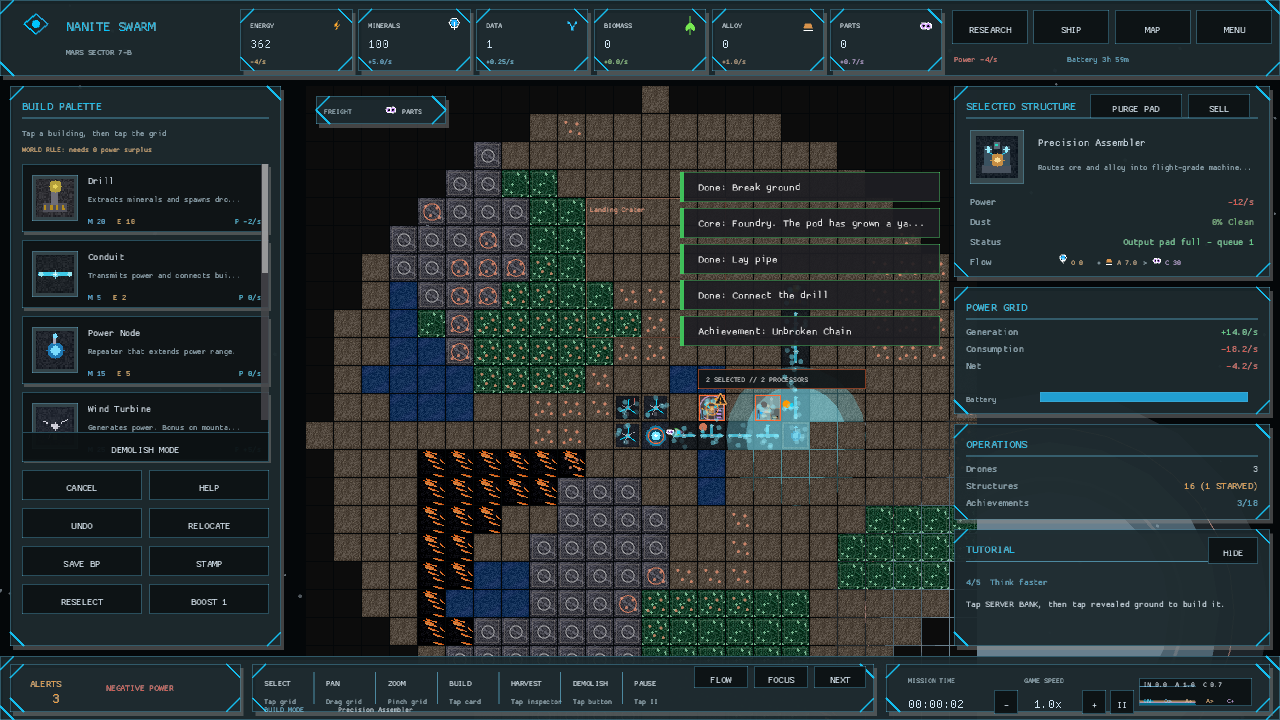
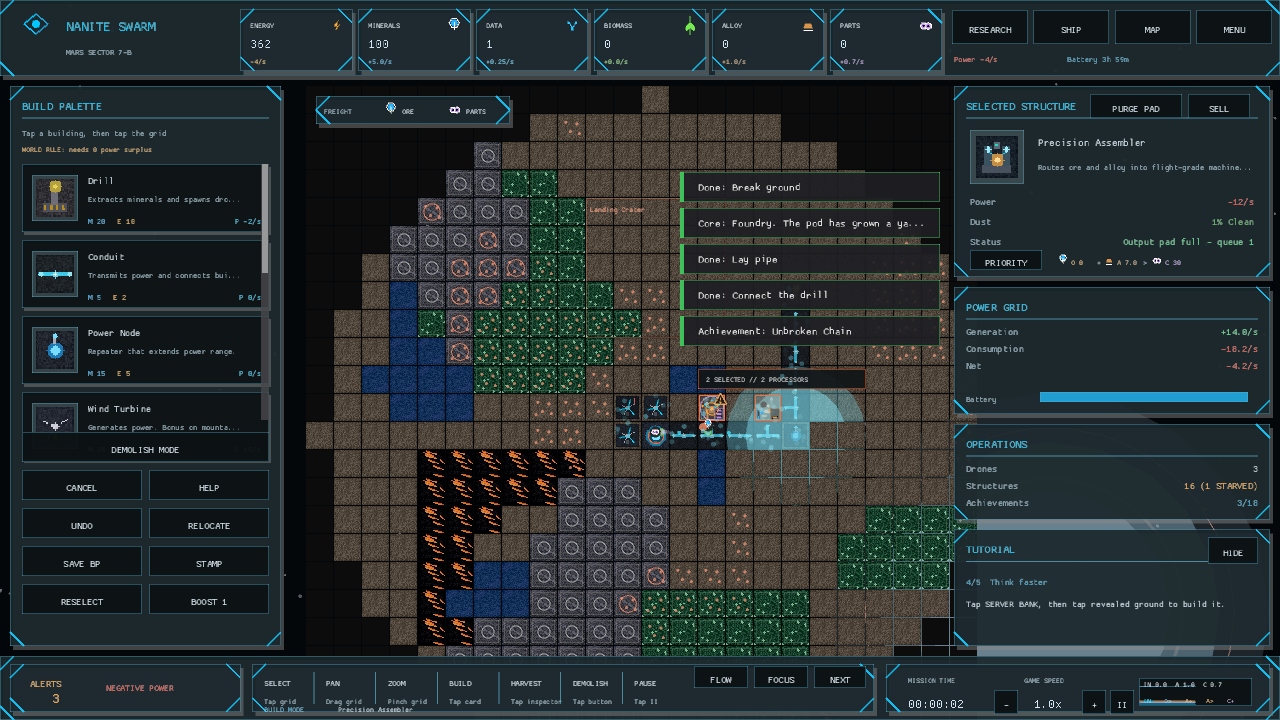
The hungriest line can call the freight swarm first (processor input priority)
Demand balancing alone could not express that one production chain mattered more than its peers. Add a persistent STANDARD/PRIORITY touch control to processor recipe rows and make priority the first tier in demand-aware cargo dispatch. Preserve the policy through saves, blueprints, relocation, and undo, with routing, action, and persistence coverage.

diff --git a/src/state/actions.rs b/src/state/actions.rs
@@ -160,6 +160,7 @@ impl PlanetState {
                     building_type,
                     pos,
                     removed.overclocked,
+                    removed.input_priority,
                 ));
             return true;
         }
@@ -254,6 +255,7 @@ impl PlanetState {
                         offset: (pos.x - anchor.x, pos.y - anchor.y),
                         building_type: building.building_type,
                         overclocked: building.overclocked,
+                        input_priority: building.input_priority,
                     })
             })
             .collect();
@@ -388,6 +390,15 @@ impl PlanetState {
                         building.overclocked = building.supports_overclock();
                     }
                 }
+                if entry.input_priority {
+                    if let Some(building) = self
+                        .grid
+                        .get_mut(pos)
+                        .and_then(|tile| tile.building.as_mut())
+                    {
+                        building.input_priority = building.supports_overclock();
+                    }
+                }
                 placed += 1;
             }
         }
@@ -418,11 +429,17 @@ impl PlanetState {
     }
 
     pub fn relocate_building(&mut self, source: GridPos, destination: GridPos) -> bool {
-        let Some((building_type, overclocked)) = self
+        let Some((building_type, overclocked, input_priority)) = self
             .grid
             .get(source)
             .and_then(|tile| tile.building.as_ref())
-            .map(|building| (building.building_type, building.overclocked))
+            .map(|building| {
+                (
+                    building.building_type,
+                    building.overclocked,
+                    building.input_priority,
+                )
+            })
         else {
             return false;
         };
@@ -446,6 +463,15 @@ impl PlanetState {
             }
             self.power_balance = self.net_power();
         }
+        if placed && input_priority {
+            if let Some(building) = self
+                .grid
+                .get_mut(destination)
+                .and_then(|tile| tile.building.as_mut())
+            {
+                building.input_priority = building.supports_overclock();
+            }
+        }
         placed
     }
 
@@ -455,7 +481,7 @@ impl PlanetState {
         };
         let success = match action {
             super::game_state::UndoEntry::Placed(pos) => self.try_sell_building(pos),
-            super::game_state::UndoEntry::Removed(kind, pos, overclocked) => {
+            super::game_state::UndoEntry::Removed(kind, pos, overclocked, input_priority) => {
                 self.select_building(kind);
                 let restored = self.try_place_building(pos);
                 if restored && overclocked {
@@ -467,6 +493,15 @@ impl PlanetState {
                         building.overclocked = building.supports_overclock();
                     }
                     self.power_balance = self.net_power();
+                }
+                if restored && input_priority {
+                    if let Some(building) = self
+                        .grid
+                        .get_mut(pos)
+                        .and_then(|tile| tile.building.as_mut())
+                    {
+                        building.input_priority = building.supports_overclock();
+                    }
                 }
                 restored
             }
@@ -529,6 +564,30 @@ impl PlanetState {
                 },
                 name
             )
+        });
+        true
+    }
+
+    /// Give one processor first claim on routed inputs without changing its
+    /// production speed. Priority follows blueprints, relocation, and undo.
+    pub fn toggle_input_priority(&mut self, pos: GridPos) -> bool {
+        let Some(building) = self
+            .grid
+            .get_mut(pos)
+            .and_then(|tile| tile.building.as_mut())
+        else {
+            return false;
+        };
+        if !building.supports_overclock() {
+            return false;
+        }
+        building.input_priority = !building.input_priority;
+        let enabled = building.input_priority;
+        let name = building.building_type.name();
+        self.notifications.info(if enabled {
+            format!("{} input priority: first claim on routed cargo", name)
+        } else {
+            format!("{} input priority returned to standard", name)
         });
         true
     }

diff --git a/src/screens/planetary_view/hud/inspector_panel.rs b/src/screens/planetary_view/hud/inspector_panel.rs
@@ -264,7 +264,7 @@ pub(super) fn draw(
         );
         if let Some(pos) = tile_pos_with_building {
             if let Some(flow) = recipe_flow_data(state, pos, building_type) {
-                draw_recipe_flow_row(
+                if draw_recipe_flow_row(
                     &flow,
                     theme,
                     right_x + 16.0,
@@ -272,7 +272,9 @@ pub(super) fn draw(
                     right_w - 32.0,
                     dim,
                     warning,
-                );
+                ) {
+                    state.toggle_input_priority(pos);
+                }
             }
         }
         if let Some(tile_pos) = tile_pos_with_building {
@@ -392,6 +394,7 @@ struct RecipeFlowData {
     inputs: Vec<(ResourceType, f32)>,
     output: (ResourceType, f32),
     output_capacity: f32,
+    input_priority: bool,
 }
 
 fn recipe_flow_data(
@@ -432,6 +435,11 @@ fn recipe_flow_data(
         inputs,
         output: (output, waiting),
         output_capacity: state.processor_pad_capacity(),
+        input_priority: state
+            .grid
+            .get(pos)
+            .and_then(|tile| tile.building.as_ref())
+            .is_some_and(|building| building.input_priority),
     })
 }
 
@@ -467,8 +475,16 @@ fn draw_recipe_flow_row(
     width: f32,
     label_color: Color,
     warning: Color,
-) {
-    draw_ui_text("Flow", x, y, theme.typography.body, label_color);
+) -> bool {
+    let toggled = draw_hud_button(
+        theme,
+        Rect::new(x, y - 15.0, 72.0, 20.0),
+        if flow.input_priority {
+            "PRIORITY"
+        } else {
+            "STANDARD"
+        },
+    );
     let token_w = 46.0;
     let mut cursor = (x + width * 0.31).max(x + 48.0);
     for (index, (resource, amount)) in flow.inputs.iter().enumerate() {
@@ -515,6 +531,7 @@ fn draw_recipe_flow_row(
         9.0,
         resource_color(theme, resource),
     );
+    toggled
 }
 
 fn compact_amount(amount: f32) -> String {

diff --git a/src/state/logistics.rs b/src/state/logistics.rs
@@ -324,7 +324,7 @@ impl PlanetState {
         resource: ResourceType,
     ) -> Option<(GridPos, Vec<GridPos>)> {
         let hopper_ceiling = self.processor_pad_capacity();
-        let mut best: Option<((i32, usize, i32, i32), GridPos, Vec<GridPos>)> = None;
+        let mut best: Option<((bool, i32, usize, i32, i32), GridPos, Vec<GridPos>)> = None;
 
         for pos in self.consumers_of(resource) {
             let delivered = self
@@ -355,7 +355,14 @@ impl PlanetState {
             };
             let consumption = self.consumer_rate(pos, resource).max(0.001);
             let demand_band = (committed / consumption).floor() as i32;
-            let key = (demand_band, route.len(), pos.y, pos.x);
+            let priority = self
+                .grid
+                .get(pos)
+                .and_then(|tile| tile.building.as_ref())
+                .is_some_and(|building| building.input_priority);
+            // `false` sorts before `true`: a priority line gets first claim,
+            // while demand and distance still balance peers in the same tier.
+            let key = (!priority, demand_band, route.len(), pos.y, pos.x);
             if best.as_ref().is_none_or(|(best_key, _, _)| key < *best_key) {
                 best = Some((key, pos, route));
             }

diff --git a/src/state/actions/tests.rs b/src/state/actions/tests.rs
@@ -238,6 +238,34 @@ fn processor_boost_waits_for_adaptive_clocking_research() {
 }
 
 #[test]
+fn processor_input_priority_is_touch_toggleable_without_research() {
+    let mut state = state();
+    let core = state.grid.find_core().unwrap();
+    let processor = GridPos::new(core.x + 1, core.y);
+    let drill = GridPos::new(core.x + 2, core.y);
+    state.grid.get_mut(processor).unwrap().building = Some(crate::engine::Building::new(
+        BuildingType::Smelter,
+        processor,
+    ));
+    state.grid.get_mut(drill).unwrap().building =
+        Some(crate::engine::Building::new(BuildingType::Drill, drill));
+
+    assert!(state.toggle_input_priority(processor));
+    assert!(
+        state
+            .grid
+            .get(processor)
+            .unwrap()
+            .building
+            .as_ref()
+            .unwrap()
+            .input_priority
+    );
+    assert!(state.toggle_input_priority(processor));
+    assert!(!state.toggle_input_priority(drill));
+}
+
+#[test]
 fn box_selection_changes_every_processor_without_touching_other_buildings() {
     let mut state = state();
     state

diff --git a/src/state/logistics/tests.rs b/src/state/logistics/tests.rs
@@ -145,6 +145,29 @@ fn the_leaner_processor_is_fed_before_the_nearer_one() {
 }
 
 #[test]
+fn priority_processor_claims_cargo_before_a_leaner_standard_line() {
+    let (mut state, core, drill, near, far) = two_smelter_run();
+    state.input_hoppers.insert(
+        (near.x, near.y),
+        [(ResourceType::Minerals, 12.0)].into_iter().collect(),
+    );
+    state
+        .grid
+        .get_mut(near)
+        .unwrap()
+        .building
+        .as_mut()
+        .unwrap()
+        .input_priority = true;
+
+    let delivery = state
+        .delivery_for(drill, core, ResourceType::Minerals)
+        .expect("processor delivery");
+    assert_eq!(delivery.0, near);
+    assert_ne!(delivery.0, far);
+}
+
+#[test]
 fn cargo_in_flight_counts_as_hopper_supply_for_dispatch() {
     let (mut state, core, drill, near, far) = two_smelter_run();
     let id = state.drones.spawn_drone(drill);

diff --git a/src/state/persistence/tests.rs b/src/state/persistence/tests.rs
@@ -180,6 +180,14 @@ fn processor_operating_mode_survives_a_save_roundtrip() {
         .as_mut()
         .unwrap()
         .overclocked = true;
+    planet
+        .grid
+        .get_mut(pos)
+        .unwrap()
+        .building
+        .as_mut()
+        .unwrap()
+        .input_priority = true;
     planet.auto_clocking = true;
 
     let json = save_to_json(&mut campaign).unwrap();
@@ -197,6 +205,17 @@ fn processor_operating_mode_survives_a_save_roundtrip() {
             .overclocked
     );
     assert!(loaded.current().auto_clocking);
+    assert!(
+        loaded
+            .current()
+            .grid
+            .get(pos)
+            .unwrap()
+            .building
+            .as_ref()
+            .unwrap()
+            .input_priority
+    );
 }
 
 #[test]

diff --git a/src/engine/grid_engine/building.rs b/src/engine/grid_engine/building.rs
@@ -24,6 +24,9 @@ pub struct Building {
     /// Player-selected high-throughput mode for recipe buildings.
     #[serde(default)]
     pub overclocked: bool,
+    /// Player-selected claim on scarce routed recipe inputs.
+    #[serde(default)]
+    pub input_priority: bool,
 }
 
 impl Building {
@@ -39,6 +42,7 @@ impl Building {
             acid_wear: 0.0,
             heat: 0.0,
             overclocked: false,
+            input_priority: false,
         }
     }
 

diff --git a/src/state/game_state.rs b/src/state/game_state.rs
@@ -79,12 +79,14 @@ pub struct BlueprintEntry {
     pub building_type: BuildingType,
     #[serde(default)]
     pub overclocked: bool,
+    #[serde(default)]
+    pub input_priority: bool,
 }
 
 #[derive(Debug, Clone, Copy)]
 pub enum UndoEntry {
     Placed(GridPos),
-    Removed(BuildingType, GridPos, bool),
+    Removed(BuildingType, GridPos, bool, bool),
 }
 /// Resources held by the player
 #[derive(Debug, Clone, Default, Serialize, Deserialize)]

diff --git a/src/capture_scenes.rs b/src/capture_scenes.rs
@@ -398,6 +398,7 @@ impl Game {
                     .and_then(|tile| tile.building.as_mut())
                 {
                     building.overclocked = true;
+                    building.input_priority = true;
                 }
 
                 let smelter = engine::GridPos::new(core.x + 4, core.y - 1);

diff --git a/README.md b/README.md
@@ -41,6 +41,7 @@ Records now reward scaling the factory systems themselves: three simultaneous bo
 When a selected processor pad is full, tap PURGE PAD and then PURGE AGAIN to discard only its staged output and recover the machine without accidental one-tap loss.
 FLOW recipe nodes use separate gauges: the bottom bar is input readiness, while the right edge rises with output pressure and turns red at a full dispatch pad.
 FLOW routes now thicken as live traffic approaches conduit capacity, pulse amber when saturated, and slow their packet animation to mirror the drones caught in that lane.
+Selected processors expose a STANDARD / PRIORITY touch control beside their live recipe flow; priority lines claim scarce routed inputs before standard lines while still balancing demand among equal peers.
 
 Keyboard shortcuts are optional:
 
